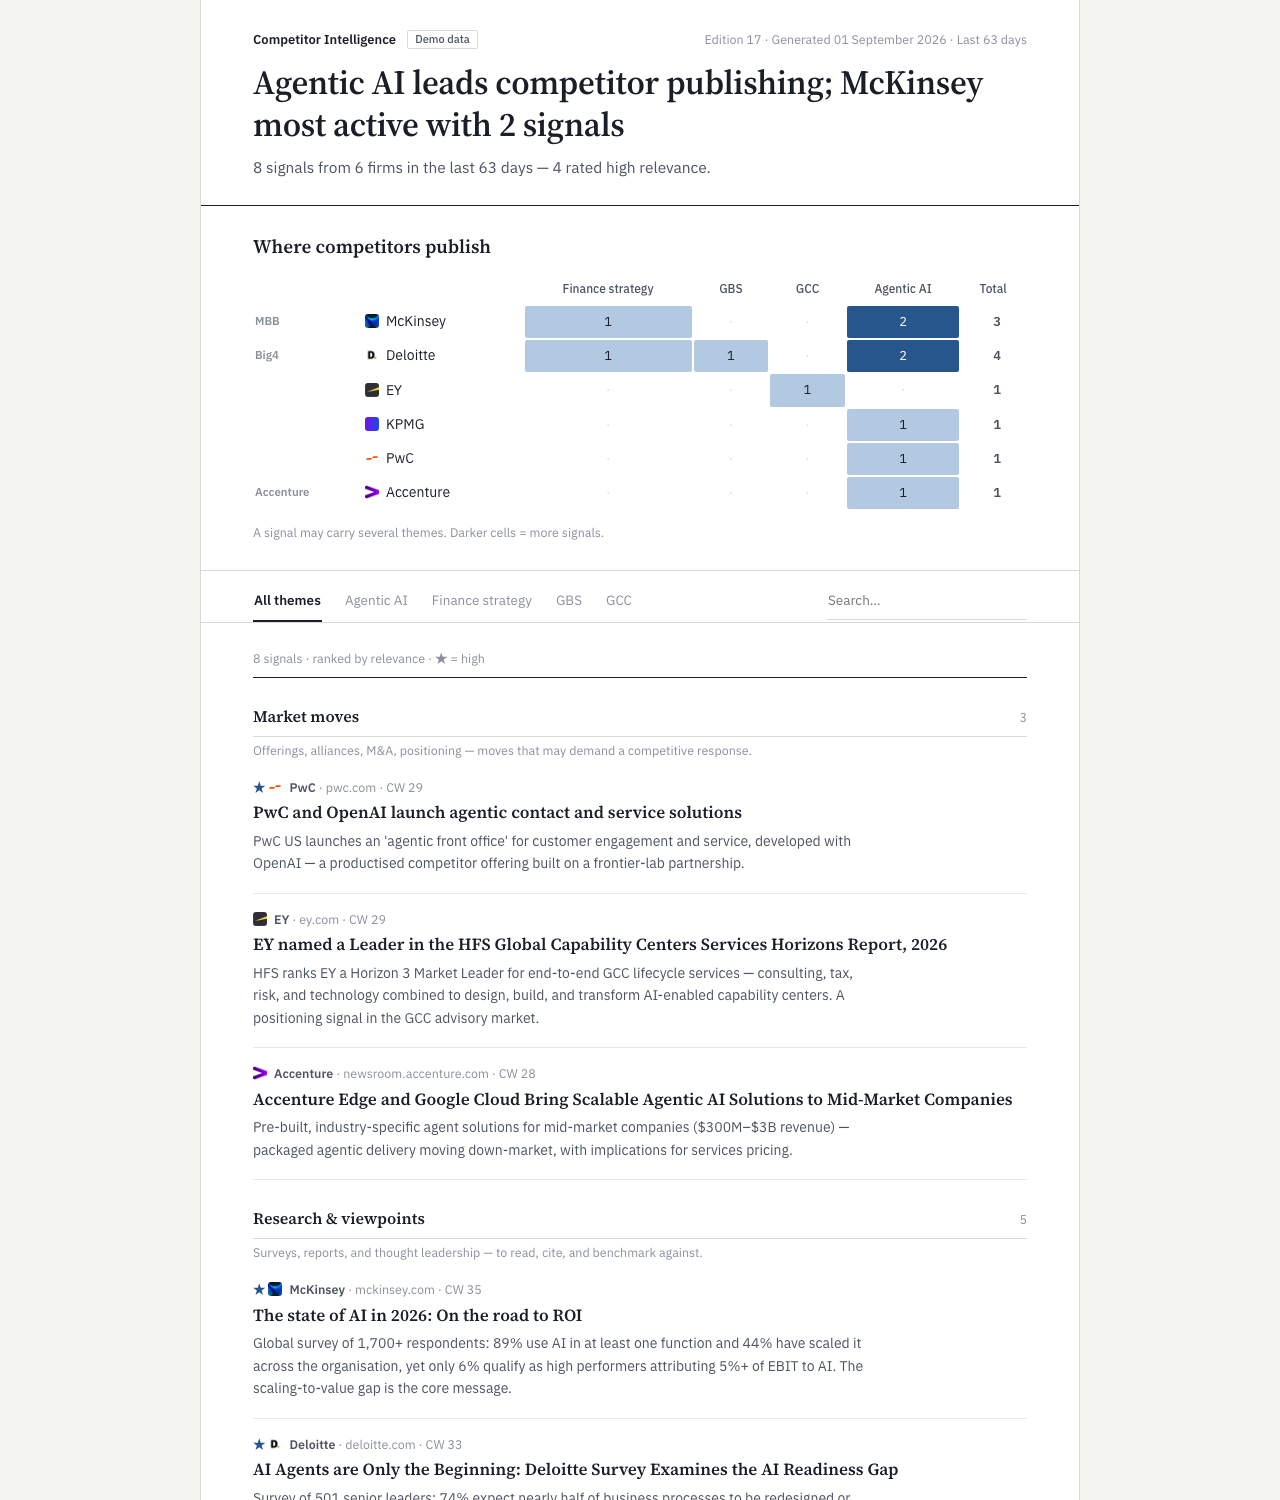
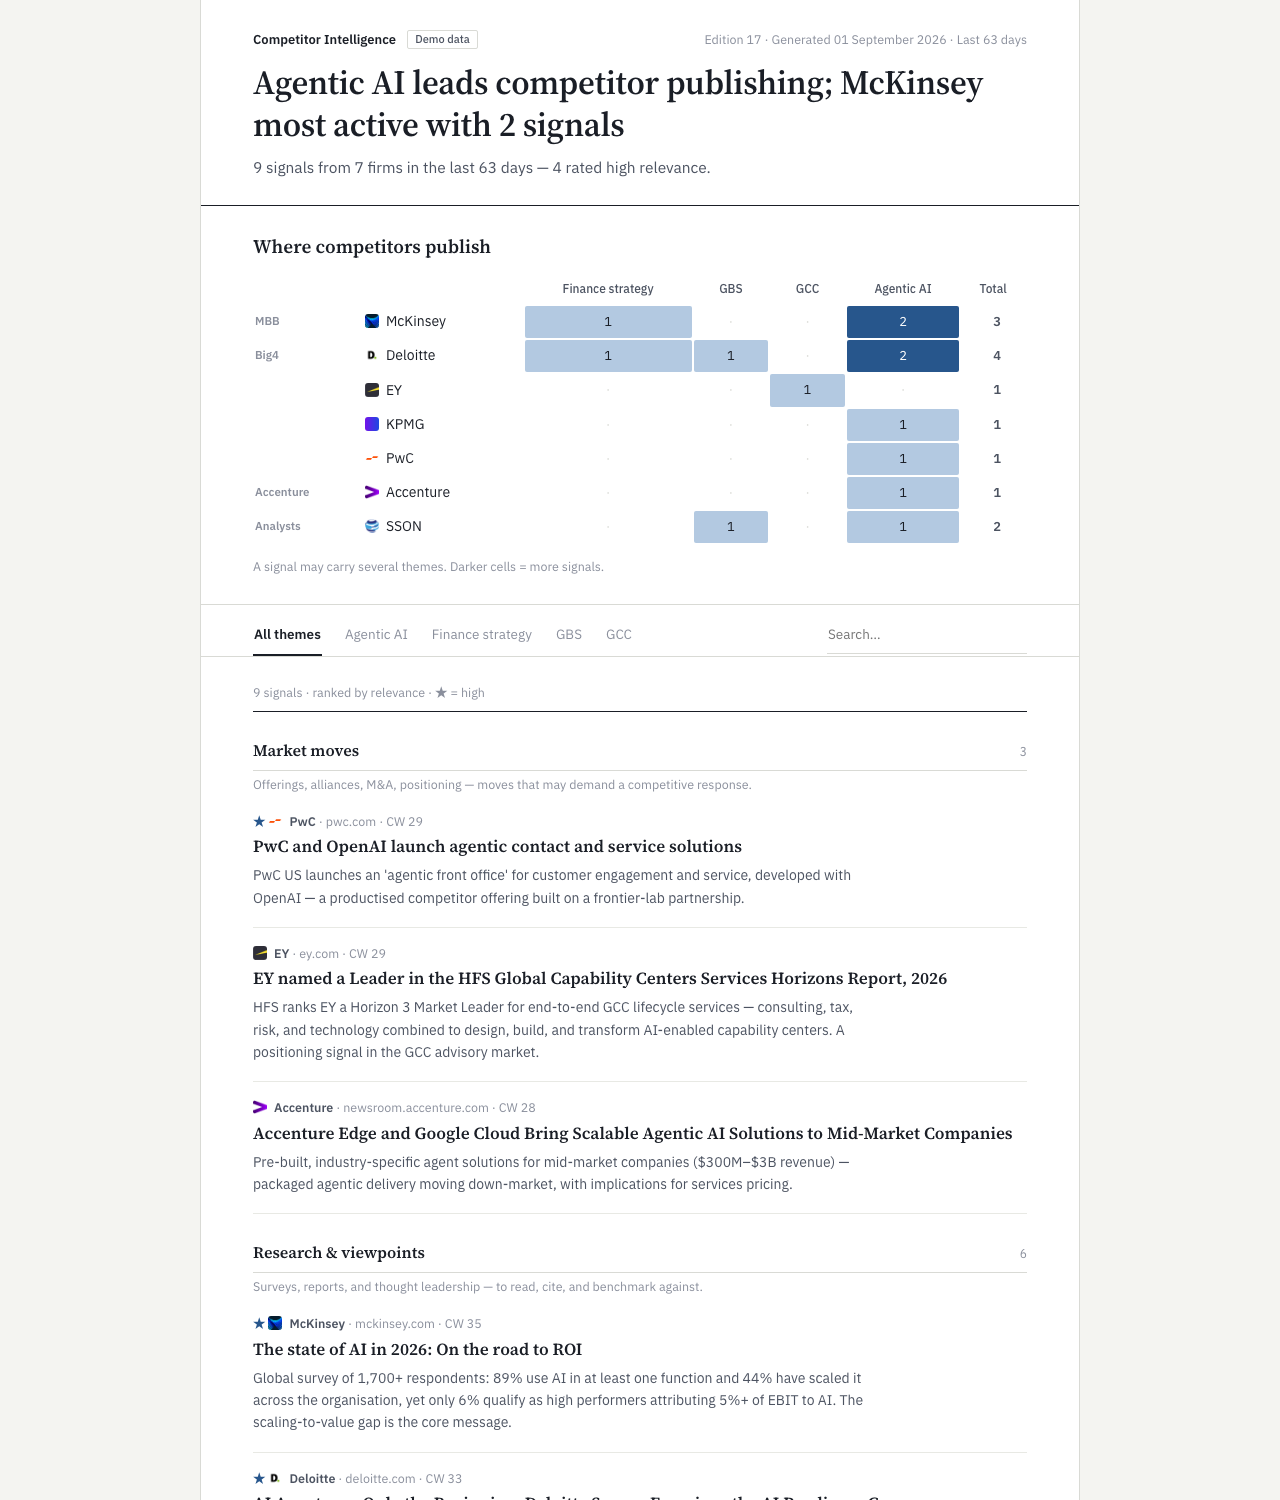
Digestion upgrades: score from article body, collapse syndicated stories; SSON in demo
- The scorer now fetches each article and reads a 2000-char plain-text
  extract instead of judging from the ~150-char alert snippet
  (INTEL_FETCH_ARTICLE, snippet-only fallback on any fetch failure)
- Ingest collapses near-duplicate stories: same normalized headline from
  different syndicating outlets within 30 days is stored once
- Demo gains a verified SSON piece (Aug 26, 2026), lighting up the
  Analysts cluster

diff --git a/docs/index.html b/docs/index.html
@@ -305,13 +305,13 @@
 
   <div class="lede">
     <h1>Agentic AI leads competitor publishing; McKinsey most active with 2 signals</h1>
-    <div class="deck">8 signals from 6 firms in the last 63 days — 4 rated high relevance.</div>
+    <div class="deck">9 signals from 7 firms in the last 63 days — 4 rated high relevance.</div>
   </div>
 
   <div class="exhibit">
     <div class="exhibit-title">Where competitors publish</div>
     <div class="matrix-scroll">
[2 lines of base64/hex data omitted]
     </div>
     <div class="exhibit-note">A signal may carry several themes. Darker cells = more signals.</div>
   </div>
@@ -338,7 +338,7 @@
 </div>
 
 <script>
[2 lines of base64/hex data omitted]
 
 let filters = { tag: 'all', search: '' };
 

diff --git a/summarize_new_links.py b/summarize_new_links.py
@@ -2,9 +2,11 @@
 from __future__ import annotations
 
 import os
+import re
 import sqlite3
 import sys
 from datetime import datetime, timedelta, timezone
+from html import unescape
 
 import requests
 
@@ -20,6 +22,36 @@ MAX_TO_SUMMARIZE = int((os.getenv("INTEL_MAX_SUMMARIZE", "30") or "30").strip())
 
 # Minimum relevance score to include in newsletter (1-3). Explorer shows all scores >= 1.
 NEWSLETTER_MIN_SCORE = int(os.getenv("INTEL_MIN_SCORE", "3"))
+
+# Alert snippets are ~150 characters — too little to judge relevance well.
+# By default the scorer fetches the article and reads an extract of the body;
+# on any fetch failure it falls back to the snippet alone.
+FETCH_ARTICLE = os.getenv("INTEL_FETCH_ARTICLE", "1").strip().lower() not in ("0", "false")
+ARTICLE_CHARS = int(os.getenv("INTEL_ARTICLE_CHARS", "2000"))
+FETCH_TIMEOUT = int(os.getenv("INTEL_FETCH_TIMEOUT", "15"))
+
+_FETCH_HEADERS = {
+    "User-Agent": "Mozilla/5.0 (Macintosh; Intel Mac OS X 10_15_7) AppleWebKit/537.36 (KHTML, like Gecko) Chrome/120.0.0.0 Safari/537.36",
+    "Accept": "text/html,application/xhtml+xml;q=0.9,*/*;q=0.8",
+}
+
+
+def fetch_article_extract(url: str) -> str:
+    """Best-effort plain-text extract of the article body. Empty string on failure."""
+    if not FETCH_ARTICLE or not (url or "").lower().startswith(("http://", "https://")):
+        return ""
+    try:
+        r = requests.get(url, headers=_FETCH_HEADERS, timeout=FETCH_TIMEOUT)
+        r.raise_for_status()
+        if "html" not in (r.headers.get("content-type") or "html"):
+            return ""
+        html = r.text
+        html = re.sub(r"(?is)<(script|style|noscript|svg|head)[^>]*>.*?</\1>", " ", html)
+        text = re.sub(r"<[^>]+>", " ", html)
+        text = re.sub(r"\s+", " ", unescape(text)).strip()
+        return text[:ARTICLE_CHARS]
+    except Exception:
+        return ""
 
 ANTHROPIC_API_URL = "https://api.anthropic.com/v1/messages"
 ANTHROPIC_VERSION = "2023-06-01"
@@ -48,7 +80,7 @@ def clamp_text(s: str, max_chars: int) -> str:
     return s[: max_chars - 1].rstrip() + "…"
 
 
-def _build_prompt(title: str, url: str, snippet: str, feed_type: str) -> str:
+def _build_prompt(title: str, url: str, snippet: str, feed_type: str, extract: str = "") -> str:
     context_hint = (
         "This is a CLIENT signal — a publication, announcement, or market move by a company "
         "that is or could be a consulting client. Frame the summary from an advisory lens: "
@@ -83,6 +115,7 @@ SUMMARY: [2-3 sentences, max 60 words, factual, no hype]
 Title: {title}
 URL: {url}
 Snippet: {snippet}
+{f"Article extract (may be partial): {extract}" if extract else ""}
 """.strip()
 
 
@@ -175,7 +208,8 @@ def llm_summarize(title: str, url: str, snippet: str, feed_type: str = "competit
         base = clamp_text(snippet or "", 420)
         return 2, base if base else "No AI summary available. Please open the link for details.", ""
 
-    prompt = _build_prompt(title, url, snippet, feed_type)
+    extract = fetch_article_extract(url)
+    prompt = _build_prompt(title, url, snippet, feed_type, extract)
     raw = _call_claude(prompt)
 
     if not raw:

diff --git a/intel_ingest_stdlib.py b/intel_ingest_stdlib.py
@@ -137,6 +137,12 @@ def sha1(s: str) -> str:
     return hashlib.sha1(s.encode("utf-8", errors="ignore")).hexdigest()
 
 
+def norm_title(title: str) -> str:
+    """Normalize a title for near-duplicate detection: the same story often
+    arrives from several syndicating outlets under different URLs."""
+    return re.sub(r"[^a-z0-9]+", " ", (title or "").lower()).strip()
+
+
 def connect_db() -> sqlite3.Connection:
     con = sqlite3.connect(DB_PATH, timeout=30)
     try:
@@ -178,6 +184,7 @@ def ensure_schema(con: sqlite3.Connection) -> None:
     )
     _add_col_if_missing(cur, "articles", "clean_url", "TEXT")
     _add_col_if_missing(cur, "articles", "feed_type", "TEXT")
+    _add_col_if_missing(cur, "articles", "title_norm", "TEXT")
 
     cur.execute(
         """
@@ -193,6 +200,7 @@ def ensure_schema(con: sqlite3.Connection) -> None:
     cur.execute("CREATE INDEX IF NOT EXISTS idx_articles_source ON articles(source)")
     try:
         cur.execute("CREATE INDEX IF NOT EXISTS idx_articles_clean_url ON articles(clean_url)")
+        cur.execute("CREATE INDEX IF NOT EXISTS idx_articles_title_norm ON articles(title_norm)")
     except Exception:
         pass
     con.commit()
@@ -399,12 +407,27 @@ def upsert_article(
     if cur.fetchone() is not None:
         return False
 
+    # Near-duplicate collapse: the same story syndicated by several outlets
+    # arrives under different URLs but (nearly) the same headline.
+    title_normed = norm_title(title)
+    if title_normed:
+        try:
+            cutoff = (datetime.now(timezone.utc) - timedelta(days=30)).isoformat()
+            cur.execute(
+                "SELECT 1 FROM articles WHERE title_norm = ? AND created_at >= ? LIMIT 1",
+                (title_normed, cutoff),
+            )
+            if cur.fetchone() is not None:
+                return False
+        except Exception:
+            pass
+
     cur.execute(
         """
-        INSERT INTO articles(article_id, source, title, url, clean_url, published_at, created_at, snippet, tags, feed_type)
-        VALUES (?, ?, ?, ?, ?, ?, ?, ?, ?, ?)
+        INSERT INTO articles(article_id, source, title, url, clean_url, published_at, created_at, snippet, tags, feed_type, title_norm)
+        VALUES (?, ?, ?, ?, ?, ?, ?, ?, ?, ?, ?)
         """,
-        (article_id, source, title, raw_url, clean_url, published_at, created_at, snippet, ",".join(tags), feed_type),
+        (article_id, source, title, raw_url, clean_url, published_at, created_at, snippet, ",".join(tags), feed_type, title_normed),
     )
 
     con.commit()

diff --git a/README.md b/README.md
@@ -85,7 +85,7 @@ Inline-styled HTML email (renders in Outlook/Gmail), grouped by firm, high-relev
 
 ## Relevance scoring
 
-Each article is scored by Claude before summarizing:
+Each article is scored by Claude before summarizing. The scorer doesn't judge from the ~150-character alert snippet alone: by default it fetches the article and reads a plain-text extract of the body (`INTEL_FETCH_ARTICLE=0` disables this; any fetch failure falls back to the snippet). It returns a relevance score, a MOVE/RESEARCH classification, and the summary in one call:
 
 | Score | Label | Meaning | Newsletter |
 |---|---|---|---|
@@ -105,7 +105,7 @@ Design decisions for a pipeline that runs from cron with nobody watching:
 - **Fail closed.** Any failed stage or feed fetch stops the run before delivery — a partial newsletter is never sent (`INTEL_FAIL_ON_FEED_ERROR=0` opts out).
 - **Edition numbering survives failures.** The counter is committed only after the email actually goes out, so a crashed run doesn't burn an edition.
 - **Transient API errors don't kill the run.** Claude calls retry on rate limits and 5xx with exponential backoff.
-- **Duplicates collapse.** The same article arriving through several alert feeds is stored once per feed but shown once — deduplicated by canonical URL (tracking parameters and Google redirects stripped).
+- **Duplicates collapse — twice.** The same article arriving through several alert feeds is deduplicated by canonical URL (tracking parameters and Google redirects stripped), and the same *story* syndicated by different outlets under different URLs is collapsed by normalized headline within a 30-day window.
 - **Precise tagging.** Keywords match on word boundaries, so `erp` never fires inside "excerpt"; articles matching no theme are dropped before they cost an API call.
 - **Everything is inspectable.** Plain SQLite, plain HTML output archived per calendar week, one log file.
 
@@ -252,6 +252,8 @@ Each instance gets its own feeds, watchlists, branding, recipients, and archive.
 | `INTEL_MAX_AGE_DAYS` | `60` | Drop feed entries published longer ago than this (0 disables) |
 | `INTEL_MIN_SCORE` | `3` | Minimum relevance score for the newsletter |
 | `INTEL_MAX_SUMMARIZE` | `30` | Max articles to summarize per run |
+| `INTEL_FETCH_ARTICLE` | `1` | Fetch article body for scoring (snippet-only fallback) |
+| `INTEL_ARTICLE_CHARS` | `2000` | Length of the article extract given to the scorer |
 | `INTEL_MAX_PER_SOURCE` | `2` | Max newsletter articles per source |
 | `INTEL_DASHBOARD_WEEKS` | `4` | Explorer lookback in weeks |
 | `CLAUDE_MODEL` | `claude-haiku-4-5-20251001` | Claude model |
